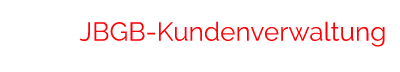
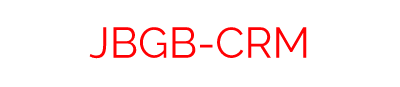
fixes

Changed region(s): [[0.18, 0.2778, 0.96, 0.6667]]

diff --git a/src/app/home/home.component.ts b/src/app/home/home.component.ts
@@ -9,7 +9,7 @@ import { faChild } from '@fortawesome/free-solid-svg-icons';
             <div class="col-md-5">
                 <span>
                     <h2>
-                        Herzlich Willkommen in der JBGB-Kundenverwaltung!
+                        Herzlich Willkommen im Customer-Relationship-Management-System von JBGB.
                     </h2>
                     <h3>
                         Sie können gerne in unserer Datenbank nach Kundendaten
